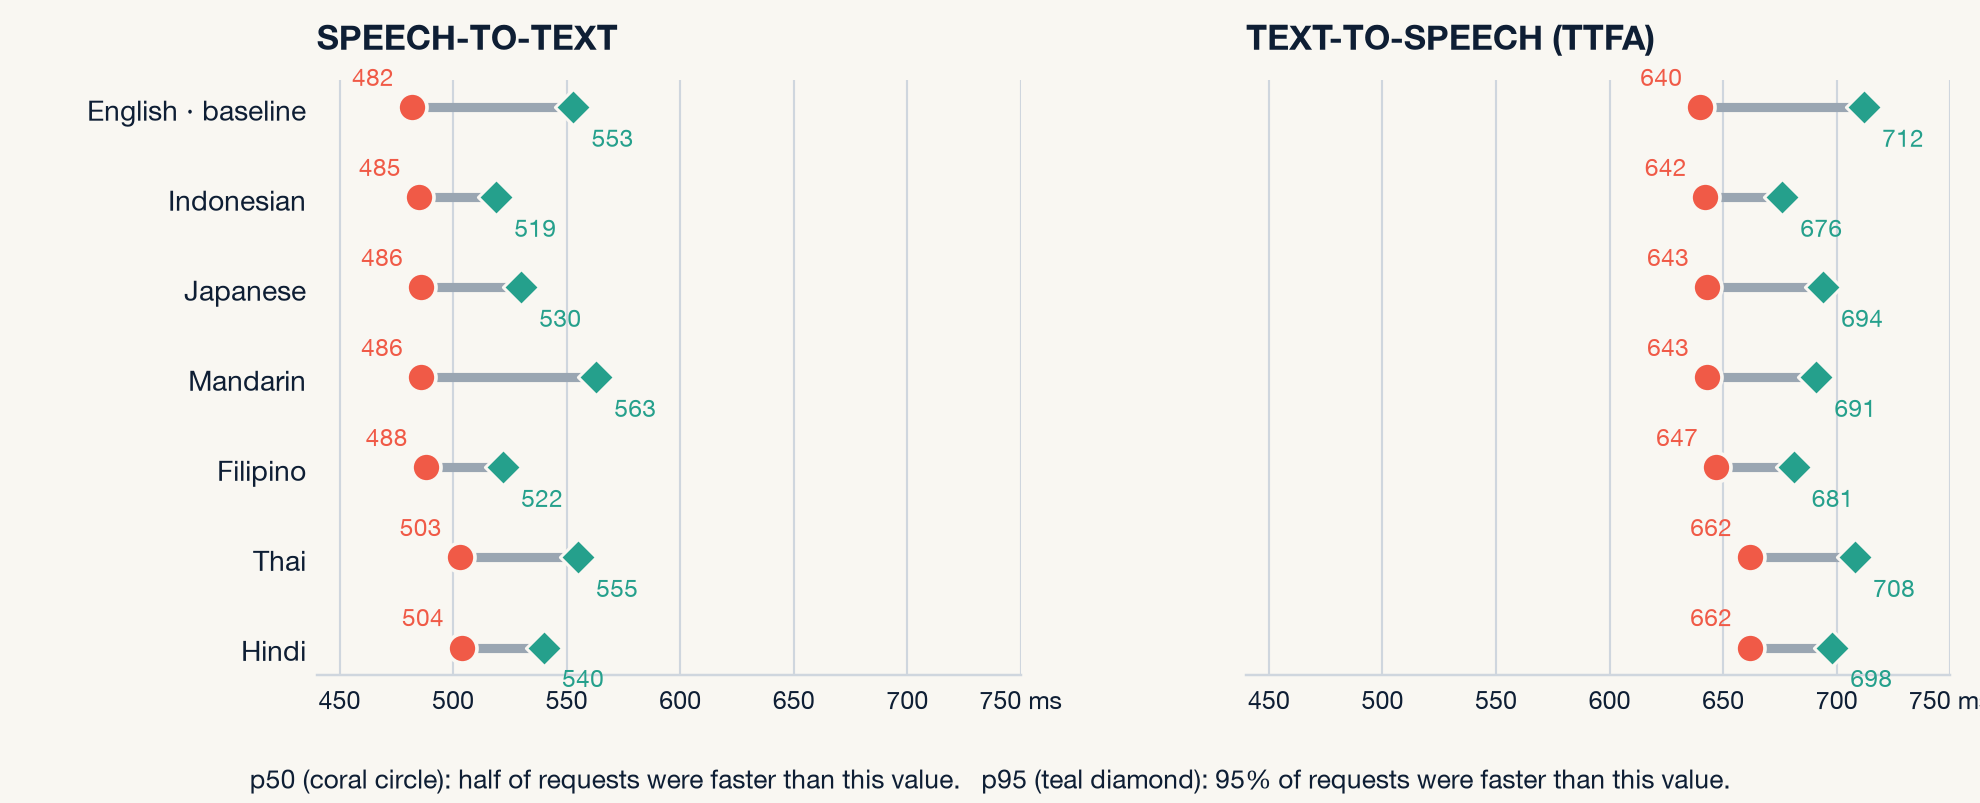
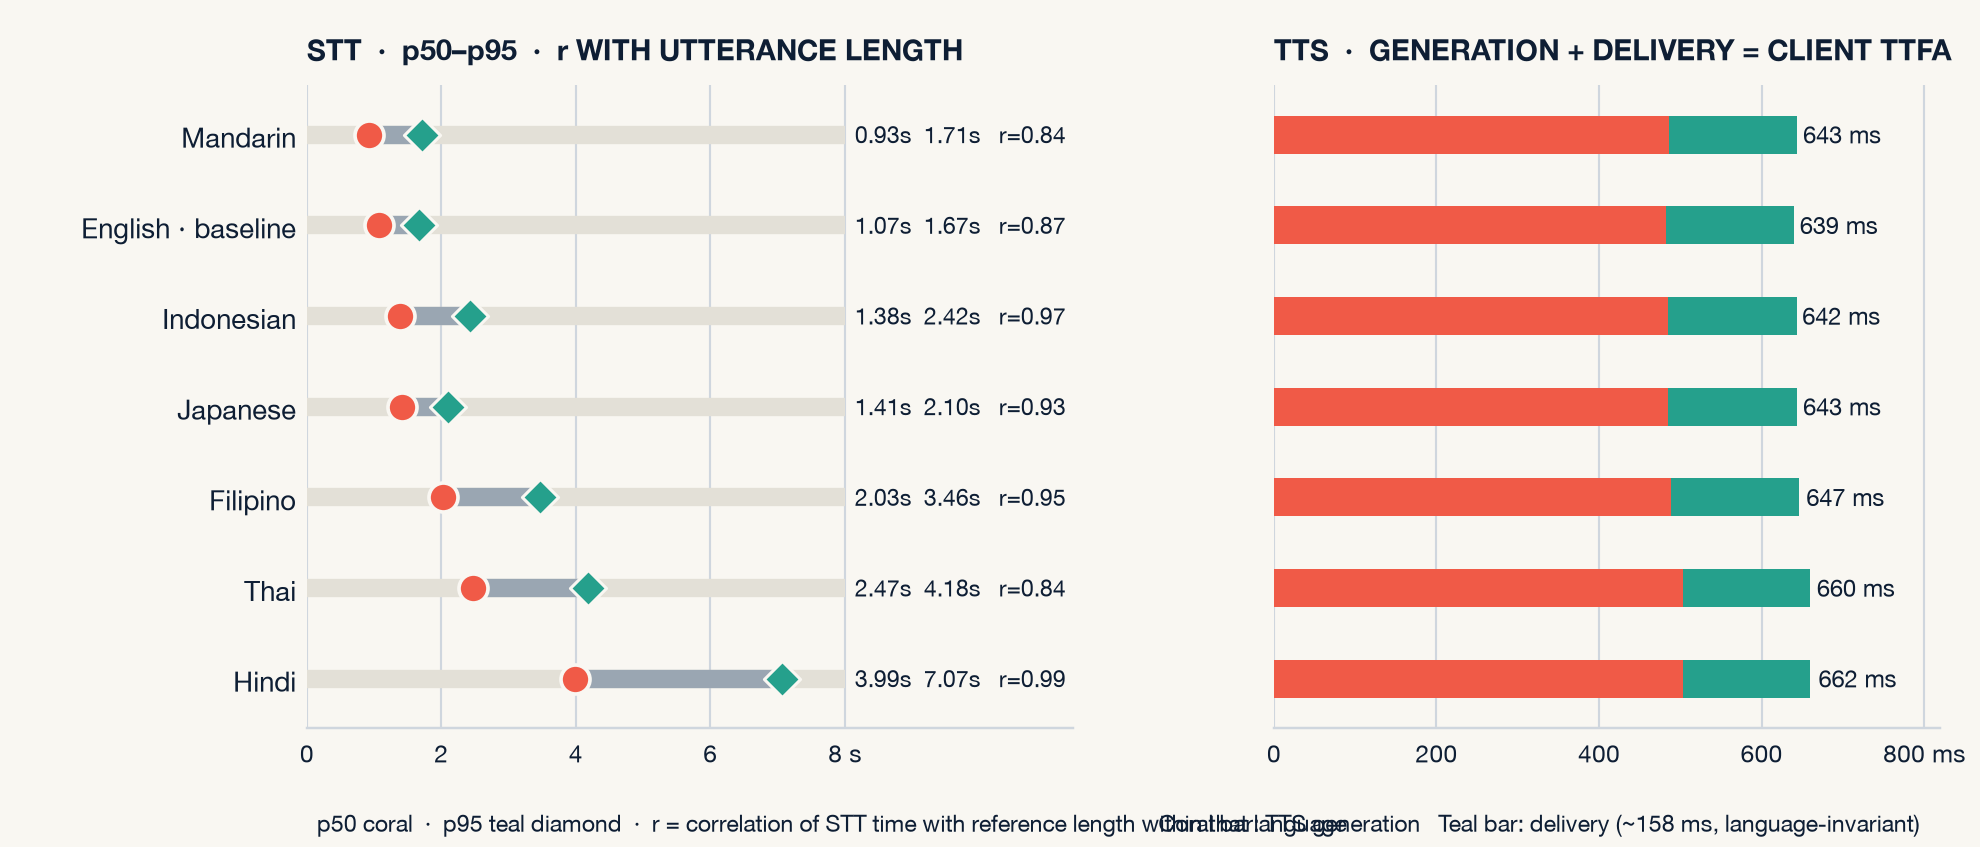
Show per-language STT length scaling and TTS latency budget

diff --git a/docs/talks/cohere-multilingual-voice/charts/render_charts.py b/docs/talks/cohere-multilingual-voice/charts/render_charts.py
@@ -218,62 +218,85 @@ def render_all_languages() -> None:
 
 
 def render_tts_latency() -> None:
+    # Sample-level FLEURS run 20260830T080032Z. STT p50/p95 in seconds;
+    # TTS server first-audio and delivery overhead in milliseconds.
+    # short/long = within-language reference-length quartiles 1 and 4.
     rows = [
-        ("English · baseline", 482, 553, 640, 712),
-        ("Indonesian", 485, 519, 642, 676),
-        ("Japanese", 486, 530, 643, 694),
-        ("Mandarin", 486, 563, 643, 691),
-        ("Filipino", 488, 522, 647, 681),
-        ("Thai", 503, 555, 662, 708),
-        ("Hindi", 504, 540, 662, 698),
+        # name, stt_p50_s, stt_p95_s, stt_short, stt_long, tts_p50, del_p50, ttfa_p50, r_stt
+        ("Mandarin", 0.93, 1.71, 0.72, 1.30, 486, 158, 643, 0.84),
+        ("English · baseline", 1.07, 1.67, 0.74, 1.45, 482, 158, 639, 0.87),
+        ("Indonesian", 1.38, 2.42, 1.00, 2.16, 485, 158, 642, 0.97),
+        ("Japanese", 1.41, 2.10, 1.03, 1.90, 485, 158, 643, 0.93),
+        ("Filipino", 2.03, 3.46, 1.37, 2.72, 488, 158, 647, 0.95),
+        ("Thai", 2.47, 4.18, 1.61, 3.23, 503, 157, 660, 0.84),
+        ("Hindi", 3.99, 7.07, 2.90, 6.46, 503, 157, 662, 0.99),
     ]
 
-    fig, (engine_ax, client_ax) = plt.subplots(
+    fig, (stt_ax, tts_ax) = plt.subplots(
         1,
         2,
-        figsize=(9.0, 3.65),
+        figsize=(9.0, 3.85),
         dpi=220,
-        gridspec_kw={"wspace": 0.32},
+        gridspec_kw={"wspace": 0.28, "width_ratios": [1.15, 1]},
     )
     fig.patch.set_facecolor(OFF_WHITE)
+    positions = list(range(len(rows)))[::-1]
 
-    def percentile_plot(ax, p50_index, p95_index, title):
-        positions = list(range(len(rows)))[::-1]
-        ax.set_facecolor(OFF_WHITE)
-        for row, y in zip(rows, positions):
-            p50, p95 = row[p50_index], row[p95_index]
-            ax.hlines(y, p50, p95, color=INTERVAL, linewidth=3, zorder=2)
-            ax.scatter(p50, y, s=90, color=CORAL, edgecolors=OFF_WHITE, linewidths=1.2, zorder=3)
-            ax.scatter(p95, y, s=70, marker="D", color=TEAL, edgecolors=OFF_WHITE, linewidths=1.0, zorder=3)
-            ax.text(p50 - 8, y + 0.18, str(p50), ha="right", va="bottom", fontsize=8, color=CORAL)
-            ax.text(p95 + 8, y - 0.18, str(p95), ha="left", va="top", fontsize=8, color=TEAL)
+    stt_ax.set_facecolor(OFF_WHITE)
+    for row, y in zip(rows, positions):
+        stt_p50, stt_p95 = row[1], row[2]
+        stt_ax.hlines(y, 0, 8.0, color=TRACK, linewidth=6, zorder=1)
+        stt_ax.hlines(y, stt_p50, stt_p95, color=INTERVAL, linewidth=6, zorder=2)
+        stt_ax.scatter([stt_p50], [y], s=90, color=CORAL, edgecolors=OFF_WHITE, linewidths=1.2, zorder=4)
+        stt_ax.scatter([stt_p95], [y], s=70, marker="D", color=TEAL, edgecolors=OFF_WHITE, linewidths=1.0, zorder=4)
+        stt_ax.text(
+            8.15,
+            y,
+            f"{stt_p50:.2f}s  {stt_p95:.2f}s   r={row[8]:.2f}",
+            va="center",
+            ha="left",
+            fontsize=7.6,
+            color=INK,
+            clip_on=False,
+        )
+    stt_ax.set_yticks(positions)
+    stt_ax.set_yticklabels([row[0] for row in rows], fontsize=9.0, color=INK)
+    stt_ax.set_xlim(0, 11.4)
+    stt_ax.set_xticks([0, 2, 4, 6, 8])
+    stt_ax.set_xticklabels(["0", "2", "4", "6", "8 s"], fontsize=8.0)
+    stt_ax.set_title("STT  ·  p50–p95  ·  r WITH UTTERANCE LENGTH", loc="left",
+                     fontsize=9.4, color=INK, fontweight="bold", pad=8)
 
-        ax.set_yticks(positions)
-        ax.set_yticklabels([row[0] for row in rows], fontsize=9.2, color=INK)
-        ax.set_xlim(440, 750)
-        ax.set_xticks([450, 500, 550, 600, 650, 700, 750])
-        ax.set_xticklabels(["450", "500", "550", "600", "650", "700", "750 ms"], fontsize=8.2)
+    tts_ax.set_facecolor(OFF_WHITE)
+    for row, y in zip(rows, positions):
+        tts, delivery, ttfa = row[5], row[6], row[7]
+        tts_ax.barh(y, tts, height=0.42, color=CORAL, zorder=3)
+        tts_ax.barh(y, delivery, left=tts, height=0.42, color=TEAL, zorder=3)
+        tts_ax.text(ttfa + 8, y, f"{ttfa} ms", va="center", ha="left", fontsize=7.8, color=INK)
+    tts_ax.set_yticks(positions)
+    tts_ax.set_yticklabels([])
+    tts_ax.set_xlim(0, 820)
+    tts_ax.set_xticks([0, 200, 400, 600, 800])
+    tts_ax.set_xticklabels(["0", "200", "400", "600", "800 ms"], fontsize=8.0)
+    tts_ax.set_title("TTS  ·  GENERATION + DELIVERY = CLIENT TTFA", loc="left",
+                     fontsize=9.4, color=INK, fontweight="bold", pad=8)
+
+    for ax in (stt_ax, tts_ax):
         ax.tick_params(axis="both", length=0, colors=INK)
         ax.grid(axis="x", color=GRID, linewidth=0.7, zorder=0)
+        ax.set_axisbelow(True)
+        ax.set_ylim(-0.55, len(rows) - 0.45)
         for side in ("top", "right", "left"):
             ax.spines[side].set_visible(False)
         ax.spines["bottom"].set_color(GRID)
-        ax.set_title(title, loc="left", fontsize=11, color=INK, fontweight="bold", pad=10)
 
-    percentile_plot(engine_ax, 1, 2, "SPEECH-TO-TEXT")
-    percentile_plot(client_ax, 3, 4, "TEXT-TO-SPEECH (TTFA)")
-    client_ax.set_yticklabels([])
-
-    fig.text(
-        0.50,
-        0.018,
-        "p50 (coral circle): half of requests were faster than this value.   "
-        "p95 (teal diamond): 95% of requests were faster than this value.",
-        color=INK,
-        fontsize=8.6,
-        ha="center",
-    )
-    plt.subplots_adjust(left=0.16, right=0.985, top=0.90, bottom=0.16)
+    fig.text(0.16, 0.018,
+             "p50 coral  ·  p95 teal diamond  ·  r = correlation of STT time with reference length within that language",
+             color=INK, fontsize=7.6, ha="left")
+    fig.text(0.585, 0.018,
+             "Coral bar: TTS generation   Teal bar: delivery (~158 ms, language-invariant)",
+             color=INK, fontsize=7.6, ha="left")
+    plt.subplots_adjust(left=0.155, right=0.98, top=0.90, bottom=0.14)
     fig.savefig(OUT / "tts_latency.png", facecolor=OFF_WHITE, dpi=220)
     plt.close(fig)
 
